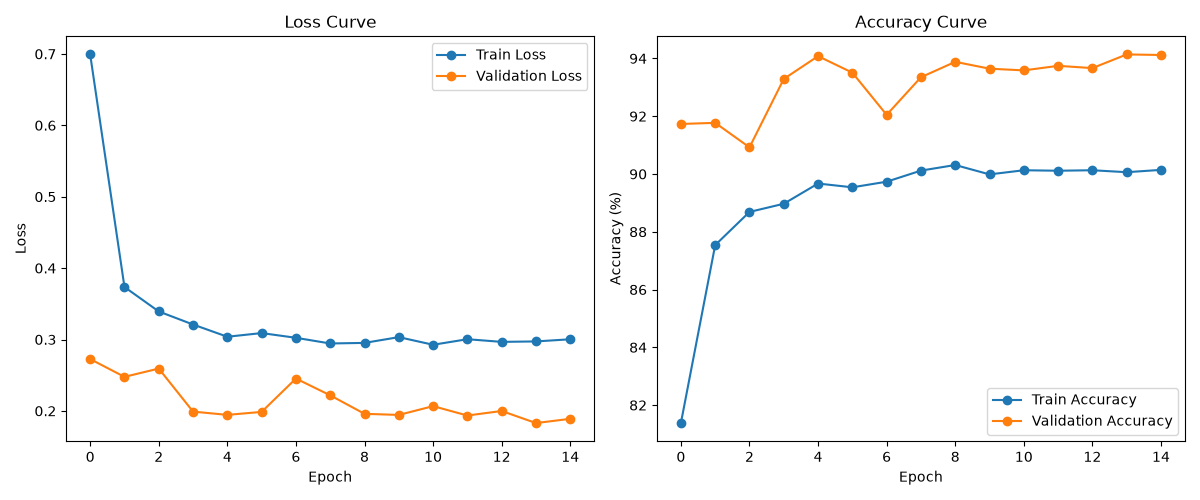
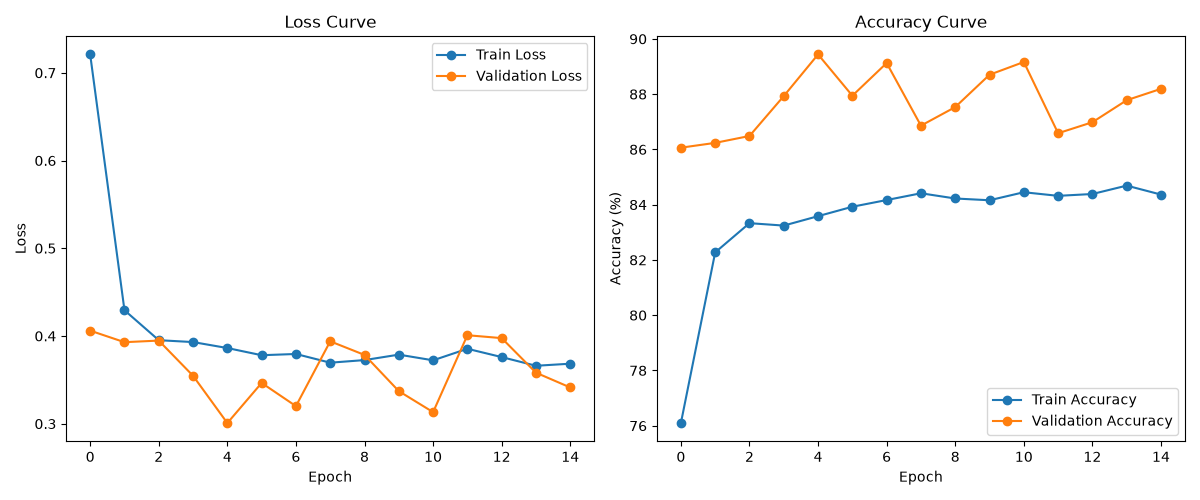
Expand CNN to 35 classes (7 crops) using fgvc8, cds, and sms as additional real-world data sources
- Added training/prepare_data_v2.py: merges 3 new sources into the existing 6-crop PlantVillage base, following PLDC-80's own published filtering methodology (single-label-only for fgvc8's multi-label rows, 3-of-7 class subset for sms) rather than inventing our own filtering rules
- Apple: merged with fgvc8 (real orchard-condition photos) for healthy/scab/rust; added 2 new classes (frog_eye_leaf_spot, powdery_mildew) with real hybrid lab+field data
- Corn: merged with cds (real field-condition photos) for gray_leaf_spot/northern_leaf_blight; added Northern_Leaf_Spot as a new class
- Strawberry: new 7th crop, combining PlantVillage's existing healthy/leaf_scorch with sms's 3 additional real disease classes (angular_leafspot, leaf_spot, powdery_mildew)
- Updated care_profiles.py: added Strawberry species profile (sourced: U Delaware, Purdue, Oregon State Extension) and CLASS_INFO entries for all 8 new classes -- correctly categorized Strawberry angular leaf spot as bacterial (Xanthomonas fragariae), not fungal, per Ohio State/Penn State/Michigan State Extension sources
- Dataset grew from 33,872 to 52,437 images across 27 to 35 classes
- Retrained MobileNetV2 (frozen backbone, same architecture as original): 90.29% test accuracy on the expanded 35-class problem
- Strawberry's thinnest new classes (38-69 test images) scored strong F1 (0.942-1.000), confirming class-weighting generalizes to new data sources, not just the original PlantVillage-only classes
[…]

diff --git a/training/prepare_data_v2.py b/training/prepare_data_v2.py
@@ -1,0 +1,172 @@
+"""
+Extends our original 6-crop PlantVillage-only dataset with 3 additional
+sources: fgvc8 (Apple, real orchard photos), cds (Corn, real field
+photos), sms (Strawberry, adds a new crop). Filtering follows PLDC-80's
+own published methodology for fgvc8 and sms (see their README's
+documented class deletions), not an arbitrary choice.
+
+Does NOT modify data/processed/{train,val,test} from prepare_data.py --
+writes to data/processed_v2/ instead, so the original validated 93.57%
+CNN result and its data remain untouched and reproducible.
+"""
+
+import shutil
+import random
+from pathlib import Path
+import pandas as pd
+
+random.seed(42)
+
+RAW_DIR = Path("data/raw")
+OUTPUT_DIR = Path("data/processed_v2")
+SPLIT_RATIOS = {"train": 0.70, "val": 0.15, "test": 0.15}
+
+PLANTVILLAGE_COLOR = RAW_DIR / "PlantVillage-Dataset" / "raw" / "color"
+
+
+def split_and_copy(images, dest_class_name):
+    """Splits a list of image paths 70/15/15 and copies into the v2 structure."""
+    images = list(images)
+    random.shuffle(images)
+    n = len(images)
+    n_train = int(n * SPLIT_RATIOS["train"])
+    n_val = int(n * SPLIT_RATIOS["val"])
+
+    splits = {
+        "train": images[:n_train],
+        "val": images[n_train:n_train + n_val],
+        "test": images[n_train + n_val:],
+    }
+    for split_name, split_images in splits.items():
+        dest_dir = OUTPUT_DIR / split_name / dest_class_name
+        dest_dir.mkdir(parents=True, exist_ok=True)
+        for img in split_images:
+            shutil.copy2(img, dest_dir / img.name)
+
+    return {k: len(v) for k, v in splits.items()}
+
+
+def get_plantvillage_images(folder_name):
+    folder = PLANTVILLAGE_COLOR / folder_name
+    return list(folder.glob("*.*")) if folder.exists() else []
+
+
+def process_class(dest_class_name, source_image_lists):
+    """source_image_lists: list of lists of image paths from different sources."""
+    all_images = [img for source_list in source_image_lists for img in source_list]
+    counts = split_and_copy(all_images, dest_class_name)
+    total = sum(counts.values())
+    print(f"{dest_class_name:50s} total={total:5d}  (train={counts['train']}, val={counts['val']}, test={counts['test']})")
+    return total
+
+
+def main():
+    grand_total = 0
+
+    print("--- Unchanged crops (PlantVillage only) ---")
+    unchanged = {
+        "Tomato___Bacterial_spot": ["Tomato___Bacterial_spot"],
+        "Tomato___Early_blight": ["Tomato___Early_blight"],
+        "Tomato___healthy": ["Tomato___healthy"],
+        "Tomato___Late_blight": ["Tomato___Late_blight"],
+        "Tomato___Leaf_Mold": ["Tomato___Leaf_Mold"],
+        "Tomato___Septoria_leaf_spot": ["Tomato___Septoria_leaf_spot"],
+        "Tomato___Spider_mites Two-spotted_spider_mite": ["Tomato___Spider_mites Two-spotted_spider_mite"],
+        "Tomato___Target_Spot": ["Tomato___Target_Spot"],
+        "Tomato___Tomato_mosaic_virus": ["Tomato___Tomato_mosaic_virus"],
+        "Tomato___Tomato_Yellow_Leaf_Curl_Virus": ["Tomato___Tomato_Yellow_Leaf_Curl_Virus"],
+        "Potato___Early_blight": ["Potato___Early_blight"],
+        "Potato___healthy": ["Potato___healthy"],
+        "Potato___Late_blight": ["Potato___Late_blight"],
+        "Pepper,_bell___Bacterial_spot": ["Pepper,_bell___Bacterial_spot"],
+        "Pepper,_bell___healthy": ["Pepper,_bell___healthy"],
+        "Grape___Black_rot": ["Grape___Black_rot"],
+        "Grape___Esca_(Black_Measles)": ["Grape___Esca_(Black_Measles)"],
+        "Grape___healthy": ["Grape___healthy"],
+        "Grape___Leaf_blight_(Isariopsis_Leaf_Spot)": ["Grape___Leaf_blight_(Isariopsis_Leaf_Spot)"],
+        "Apple___Black_rot": ["Apple___Black_rot"],  # fgvc8 has no black rot -- PlantVillage only
+        "Corn_(maize)___Common_rust_": ["Corn_(maize)___Common_rust_"],
+    }
+    for dest_name, source_folders in unchanged.items():
+        images = [img for folder in source_folders for img in get_plantvillage_images(folder)]
+        grand_total += process_class(dest_name, [images])
+
+    print("\n--- Apple (merged with fgvc8) ---")
+    fgvc8_df = pd.read_csv(RAW_DIR / "fgvc8" / "train.csv")
+    fgvc8_images_dir = RAW_DIR / "fgvc8" / "train_images"
+
+    def fgvc8_images_for_label(label):
+        filenames = fgvc8_df[fgvc8_df["labels"] == label]["image"].tolist()
+        return [fgvc8_images_dir / f for f in filenames if (fgvc8_images_dir / f).exists()]
+
+    apple_merges = {
+        "Apple___healthy": (get_plantvillage_images("Apple___healthy"), fgvc8_images_for_label("healthy")),
+        "Apple___Apple_scab": (get_plantvillage_images("Apple___Apple_scab"), fgvc8_images_for_label("scab")),
+        "Apple___Cedar_apple_rust": (get_plantvillage_images("Apple___Cedar_apple_rust"), fgvc8_images_for_label("rust")),
+    }
+    for dest_name, (pv_images, fgvc8_images) in apple_merges.items():
+        grand_total += process_class(dest_name, [pv_images, fgvc8_images])
+
+    apple_new = {
+        "Apple___Frog_eye_leaf_spot": fgvc8_images_for_label("frog_eye_leaf_spot"),
+        "Apple___Powdery_mildew": fgvc8_images_for_label("powdery_mildew"),
+    }
+    for dest_name, images in apple_new.items():
+        grand_total += process_class(dest_name, [images])
+
+    print("\n--- Corn (merged with cds) ---")
+    cds_train_dir = RAW_DIR / "cds" / "train"
+    cds_test_dir = RAW_DIR / "cds" / "test"
+
+    def cds_images(subfolder):
+        images = []
+        for base in [cds_train_dir, cds_test_dir]:
+            folder = base / subfolder
+            if folder.exists():
+                images.extend(folder.glob("*.*"))
+        return images
+
+    corn_merges = {
+        "Corn_(maize)___healthy": (get_plantvillage_images("Corn_(maize)___healthy"), []),
+        "Corn_(maize)___Cercospora_leaf_spot Gray_leaf_spot": (
+            get_plantvillage_images("Corn_(maize)___Cercospora_leaf_spot Gray_leaf_spot"), cds_images("gls")),
+        "Corn_(maize)___Northern_Leaf_Blight": (
+            get_plantvillage_images("Corn_(maize)___Northern_Leaf_Blight"), cds_images("nlb")),
+    }
+    for dest_name, (pv_images, cds_imgs) in corn_merges.items():
+        grand_total += process_class(dest_name, [pv_images, cds_imgs])
+
+    grand_total += process_class("Corn_(maize)___Northern_Leaf_Spot", [cds_images("nls")])
+
+    print("\n--- Strawberry (NEW crop: PlantVillage + sms) ---")
+    strawberry_unchanged = {
+        "Strawberry___healthy": get_plantvillage_images("Strawberry___healthy"),
+        "Strawberry___Leaf_scorch": get_plantvillage_images("Strawberry___Leaf_scorch"),
+    }
+    for dest_name, images in strawberry_unchanged.items():
+        grand_total += process_class(dest_name, [images])
+
+    sms_train_dir = RAW_DIR / "sms" / "train"
+    SMS_ALLOWED_PREFIXES = {
+        "angular_leafspot": "Strawberry___Angular_leafspot",
+        "leaf_spot": "Strawberry___Leaf_spot",
+        "powdery_mildew_leaf": "Strawberry___Powdery_mildew",
+    }
+    sms_by_class = {dest: [] for dest in SMS_ALLOWED_PREFIXES.values()}
+    for img_path in sms_train_dir.glob("*.jpg"):
+        for prefix, dest_name in SMS_ALLOWED_PREFIXES.items():
+            # exact prefix match, avoiding e.g. "leaf_spot" matching "powdery_mildew_leaf_spot"-style false positives
+            if img_path.stem.startswith(prefix) and not any(
+                img_path.stem.startswith(other) for other in SMS_ALLOWED_PREFIXES if other != prefix and other.startswith(prefix)
+            ):
+                sms_by_class[dest_name].append(img_path)
+                break
+
+    for dest_name, images in sms_by_class.items():
+        grand_total += process_class(dest_name, [images])
+
+    print(f"\n=== TOTAL: {grand_total} images across all classes ===")
+
+
+if __name__ == "__main__":
+    main()

diff --git a/care/care_profiles.py b/care/care_profiles.py
@@ -67,6 +67,13 @@ SPECIES_PROFILES = {
         "watering": "Deep watering every 3-7 days depending on conditions",
         "sun": "Full sun, 6-8 hrs/day",
     },
+        "Strawberry": {
+        "day_temp_c": "15-27",
+        "night_temp_c": "—",
+        "ideal_temp_range_c": (15, 27),
+        "watering": "~25mm (1 inch) per week. Drip/soaker irrigation strongly preferred over overhead watering — overhead watering spreads both fungal and bacterial leaf diseases.",
+        "sun": "Full sun",
+    },
 }
 
 
@@ -135,7 +142,6 @@ DISEASE_CATEGORIES = {
 # that's what the CNN's class_names list contains) to its crop, condition,
 # category, and any disease-specific note.
 # ---------------------------------------------------------------------------
-
 CLASS_INFO = {
     "Apple___Apple_scab": {
         "crop": "Apple", "condition": "Apple scab", "category": "fungal",
@@ -152,6 +158,12 @@ CLASS_INFO = {
     "Apple___healthy": {
         "crop": "Apple", "condition": "Healthy", "category": "healthy", "note": None,
     },
+    "Apple___Frog_eye_leaf_spot": {
+        "crop": "Apple", "condition": "Frog-eye leaf spot", "category": "fungal", "note": None,
+    },
+    "Apple___Powdery_mildew": {
+        "crop": "Apple", "condition": "Powdery mildew", "category": "fungal", "note": None,
+    },
 
     "Corn_(maize)___Cercospora_leaf_spot Gray_leaf_spot": {
         "crop": "Corn_(maize)", "condition": "Cercospora leaf spot / Gray leaf spot", "category": "fungal",
@@ -167,6 +179,10 @@ CLASS_INFO = {
     },
     "Corn_(maize)___healthy": {
         "crop": "Corn_(maize)", "condition": "Healthy", "category": "healthy", "note": None,
+    },
+    "Corn_(maize)___Northern_Leaf_Spot": {
+        "crop": "Corn_(maize)", "condition": "Northern Leaf Spot", "category": "fungal",
+        "note": "Visually similar to Gray leaf spot — general fungal management applies to both.",
     },
 
     "Grape___Black_rot": {
@@ -234,6 +250,23 @@ CLASS_INFO = {
     "Tomato___Tomato_Yellow_Leaf_Curl_Virus": {
         "crop": "Tomato", "condition": "Tomato Yellow Leaf Curl Virus", "category": "viral",
         "note": "Transmitted by whiteflies — controlling the whitefly population is the primary prevention method.",
+    },
+
+    "Strawberry___healthy": {
+        "crop": "Strawberry", "condition": "Healthy", "category": "healthy", "note": None,
+    },
+    "Strawberry___Leaf_scorch": {
+        "crop": "Strawberry", "condition": "Leaf scorch", "category": "fungal", "note": None,
+    },
+    "Strawberry___Angular_leafspot": {
+        "crop": "Strawberry", "condition": "Angular leaf spot", "category": "bacterial",
+        "note": "Caused by a bacterium (Xanthomonas fragariae), not a fungus — fungicides are ineffective. Favored by cool, wet conditions and overhead irrigation; switch to drip/soaker irrigation and avoid working around wet plants.",
+    },
+    "Strawberry___Leaf_spot": {
+        "crop": "Strawberry", "condition": "Leaf spot", "category": "fungal", "note": None,
+    },
+    "Strawberry___Powdery_mildew": {
+        "crop": "Strawberry", "condition": "Powdery mildew", "category": "fungal", "note": None,
     },
 }
 

diff --git a/heatmap/advisor.py b/heatmap/advisor.py
@@ -123,18 +123,18 @@ def analyze_crop(crop_name, monthly_climate, elevation, latitude):
 
 
 def water_breakdown(etc_mm_day, crop_name):
-    """Converts ETc (mm/day) into practical units: per m^2, per hectare,
-    and a stated-assumption per-plant figure."""
-    liters_per_m2_day = etc_mm_day  # 1mm over 1m^2 = 1 liter, direct equivalence
-    m3_per_hectare_month = etc_mm_day * 10 * 30  # 1mm/day over 1ha = 10 m^3/day
-
+    """Converts ETc (mm/day) into two simple, audience-specific numbers:
+    liters per plant per day (home growers) and cubic meters per
+    hectare per day (farmers) -- deliberately kept to two numbers, not
+    four, to avoid the extra unit-conversion step (mm -> L/m2 -> m3/ha
+    -> per-month) making the result harder to read than it needs to be."""
     plants_per_m2 = ASSUMED_PLANTS_PER_M2[crop_name]
-    liters_per_plant_day = liters_per_m2_day / plants_per_m2
+    liters_per_plant_day = etc_mm_day / plants_per_m2
+    m3_per_hectare_day = etc_mm_day * 10  # 1mm over 1 hectare = 10 m^3
 
     return {
-        "liters_per_m2_per_day": round(liters_per_m2_day, 2),
-        "m3_per_hectare_per_month": round(m3_per_hectare_month, 1),
         "liters_per_plant_per_day": round(liters_per_plant_day, 2),
+        "m3_per_hectare_per_day": round(m3_per_hectare_day, 1),
         "assumed_plants_per_m2": plants_per_m2,
     }
 
@@ -171,18 +171,18 @@ def print_recommendations(result):
           f"elevation {result['elevation_m']:.0f}m) ===\n")
 
     for r in result["recommendations"]:
-        print(f"{r['crop']:15s}  Suitable months: {r['num_suitable_months']}/12 "
+        print(f"{r['crop']:15s}  Climate-suitable months (modeled, open-field): "
+              f"{r['num_suitable_months']}/12 "
               f"({', '.join(r['suitable_months']) if r['suitable_months'] else 'none'})")
 
         if r["avg_etc_mm_day"] is not None:
             w = r["water"]
-            clamp_note = "  [some months' estimate may be conservative -- extreme dryness beyond FAO-56's validated range]" if r["any_clamped"] else ""
-            print(f"                 Avg water need during suitable months: "
-                  f"{r['avg_etc_mm_day']:.2f} mm/day "
-                  f"({w['liters_per_m2_per_day']} L/m²/day, "
-                  f"{w['m3_per_hectare_per_month']} m³/ha/month, "
-                  f"~{w['liters_per_plant_per_day']} L/plant/day "
-                  f"assuming {w['assumed_plants_per_m2']} plants/m²){clamp_note}")
+            clamp_note = "  [estimate may be conservative in extreme dryness]" if r["any_clamped"] else ""
+            print(f"                 Estimated water use during those months: "
+                  f"{r['avg_etc_mm_day']:.2f} mm/day{clamp_note}")
+            print(f"                   Home garden: ~{w['liters_per_plant_per_day']} L/plant/day "
+                  f"(assuming {w['assumed_plants_per_m2']} plants/m²)")
+            print(f"                   Farm scale: ~{w['m3_per_hectare_per_day']} m³/ha/day")
         print()
 
 

diff --git a/training/config.py b/training/config.py
@@ -8,7 +8,7 @@ from pathlib import Path
 
 # ---- Paths ----
 PROJECT_ROOT = Path(__file__).resolve().parent.parent
-DATA_DIR = PROJECT_ROOT / "data" / "processed"
+DATA_DIR = PROJECT_ROOT / "data" / "processed_v2"
 TRAIN_DIR = DATA_DIR / "train"
 VAL_DIR = DATA_DIR / "val"
 TEST_DIR = DATA_DIR / "test"
@@ -21,7 +21,7 @@ NUM_WORKERS = 2           # kept low to avoid Windows dataloader stalls
 SEED = 42
 
 # ---- Model ----
-NUM_CLASSES = 27          # 6 crops, 27 crop-disease/healthy classes (see README)
+NUM_CLASSES = 35          # 6 crops, 27 crop-disease/healthy classes (see README)
 
 # ---- Training ----
 EPOCHS = 15                # starting point — adjust after first run based on val curves
@@ -33,5 +33,5 @@ USE_CLASS_WEIGHTS = True   # addresses imbalance, e.g. Tomato Mosaic Virus (261)
 DEVICE = torch.device("cuda" if torch.cuda.is_available() else "cpu")
 
 # ---- Checkpointing ----
-CHECKPOINT_NAME = "mobilenetv2_sgreenintel.pth"
+CHECKPOINT_NAME = "mobilenetv2_sgreenintel_v2.pth"
 BEST_MODEL_PATH = MODEL_SAVE_DIR / CHECKPOINT_NAME
